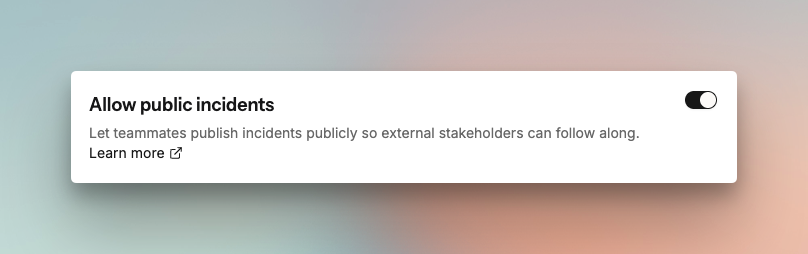
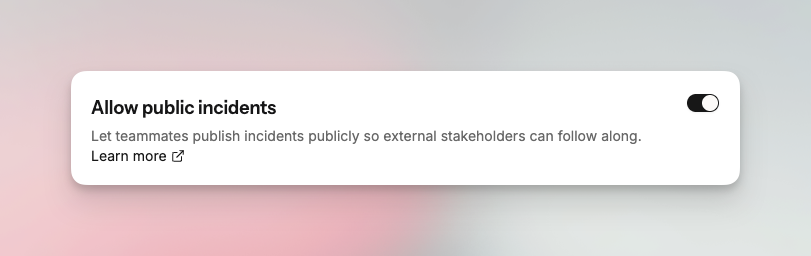
docs: update images for sharing incidents

diff --git a/incidents/sharing-incidents.md b/incidents/sharing-incidents.md
@@ -15,3 +15,13 @@ Public sharing is off by default. To turn it on, go to [Alerts under organisatio
 {% hint style="info" %}
 If you disable public sharing in organisation settings, all existing public incident links become private immediately.
 {% endhint %}
+
+## How to share an incident
+
+Open an incident and click the **Share** button on the right-hand side of the incident details page.
+
+<figure><img src="../.gitbook/assets/incidents/incidents-sharing-modal-1.png" alt="Share an incident as a public link"><figcaption><p>Click Share on the incident details page to get a public link.</p></figcaption></figure>
+
+{% hint style="info" %}
+Each incident has a unique public link. The link stays the same regardless of how many times you toggle sharing on or off.
+{% endhint %}